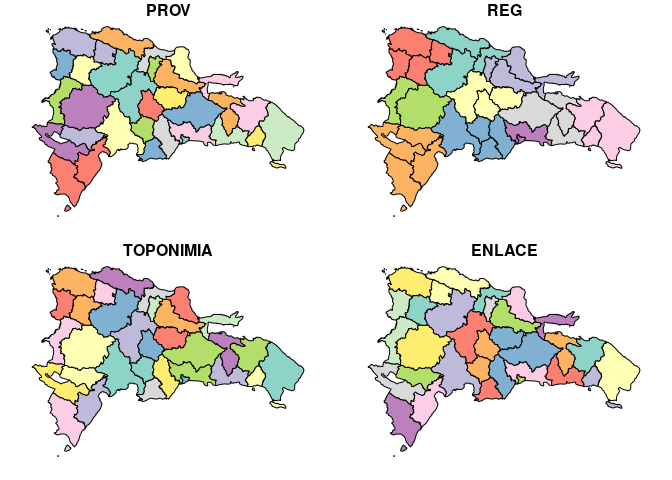
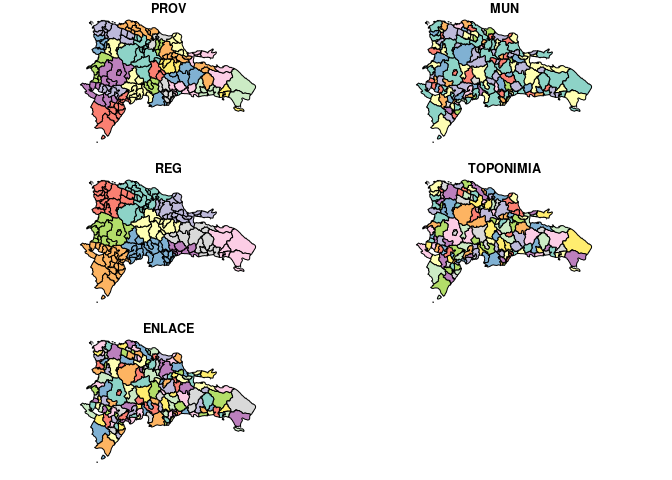
Corregida. Cargue la capa "MUNCenso2010". Gracias Tali.

diff --git a/README.md b/README.md
@@ -121,12 +121,12 @@ Nota que hasta este punto sólo realizaste mapas. En esta sección, realizarás 
 
 ``` r
 library(tidyverse)
-## ── Attaching packages ────────────────────────────────────── tidyverse 1.2.1 ──
+## ── Attaching packages ───────────────────────────────────────── tidyverse 1.2.1 ──
 ## ✔ ggplot2 3.2.1     ✔ purrr   0.3.3
 ## ✔ tibble  2.1.3     ✔ dplyr   0.8.3
 ## ✔ tidyr   1.0.0     ✔ stringr 1.4.0
 ## ✔ readr   1.3.1     ✔ forcats 0.4.0
-## ── Conflicts ───────────────────────────────────────── tidyverse_conflicts() ──
+## ── Conflicts ──────────────────────────────────────────── tidyverse_conflicts() ──
 ## ✖ dplyr::filter() masks stats::filter()
 ## ✖ dplyr::lag()    masks stats::lag()
 ```
@@ -367,9 +367,9 @@ prov %>% dplyr::filter(PROV %in% c('06', '26', '29')) %>% dplyr::select(areaenm2
 -   Genera un panel de mapas mediante `plot` usando la tubería de `tidyverse`, donde se muestre `mun` representado según todas sus columnas disponibles.
 
 ``` r
-mun <- st_read(dsn = 'data/divisionRD.gpkg', layer = 'PROVCenso2010')
-## Reading layer `PROVCenso2010' from data source `/home/wilne/unidad-1-asignacion-1-datos-espaciales-en-r-wilnellia/data/divisionRD.gpkg' using driver `GPKG'
-## Simple feature collection with 32 features and 4 fields
+mun <- st_read(dsn = 'data/divisionRD.gpkg', layer = 'MUNCenso2010')
+## Reading layer `MUNCenso2010' from data source `/home/wilne/unidad-1-asignacion-1-datos-espaciales-en-r-wilnellia/data/divisionRD.gpkg' using driver `GPKG'
+## Simple feature collection with 155 features and 5 fields
 ## geometry type:  MULTIPOLYGON
 ## dimension:      XY
 ## bbox:           xmin: 182215.8 ymin: 1933532 xmax: 571365.3 ymax: 2205216
